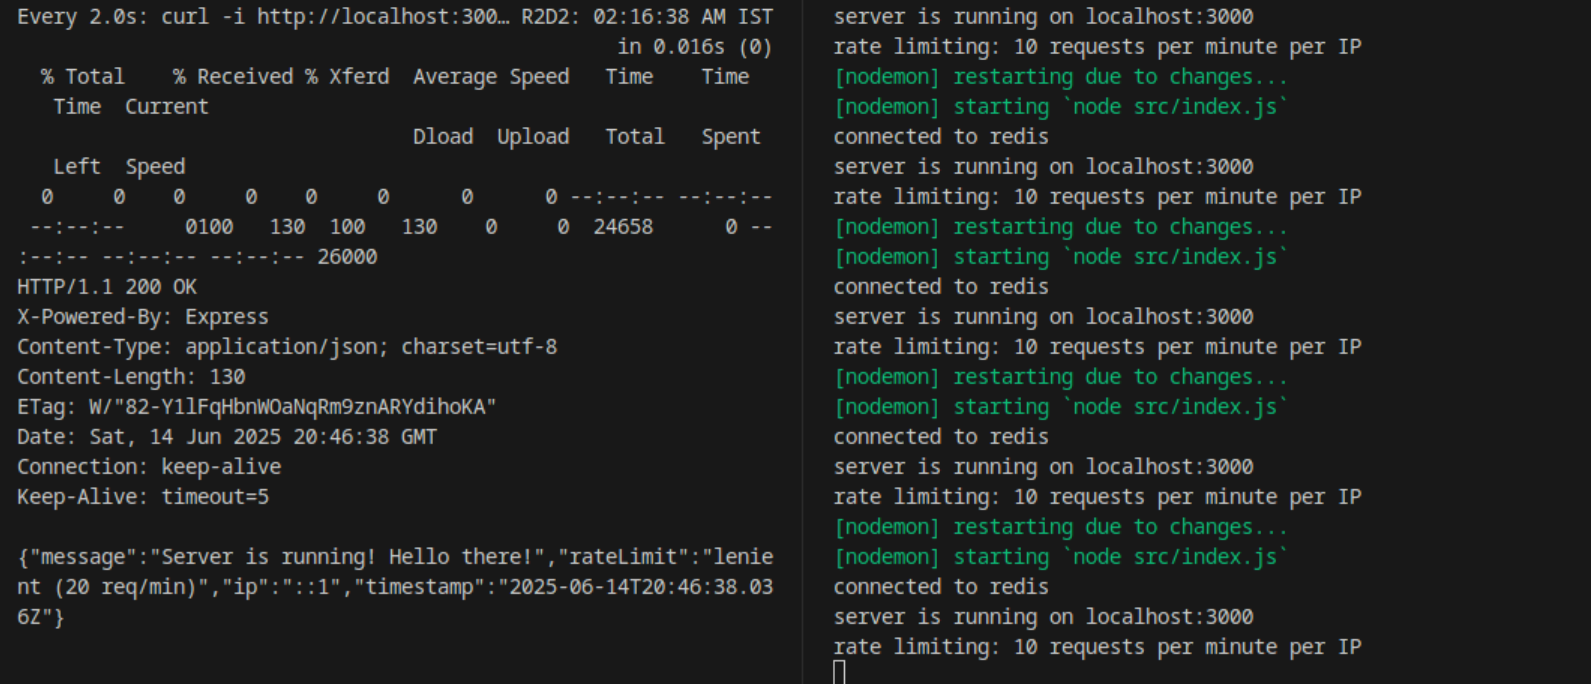
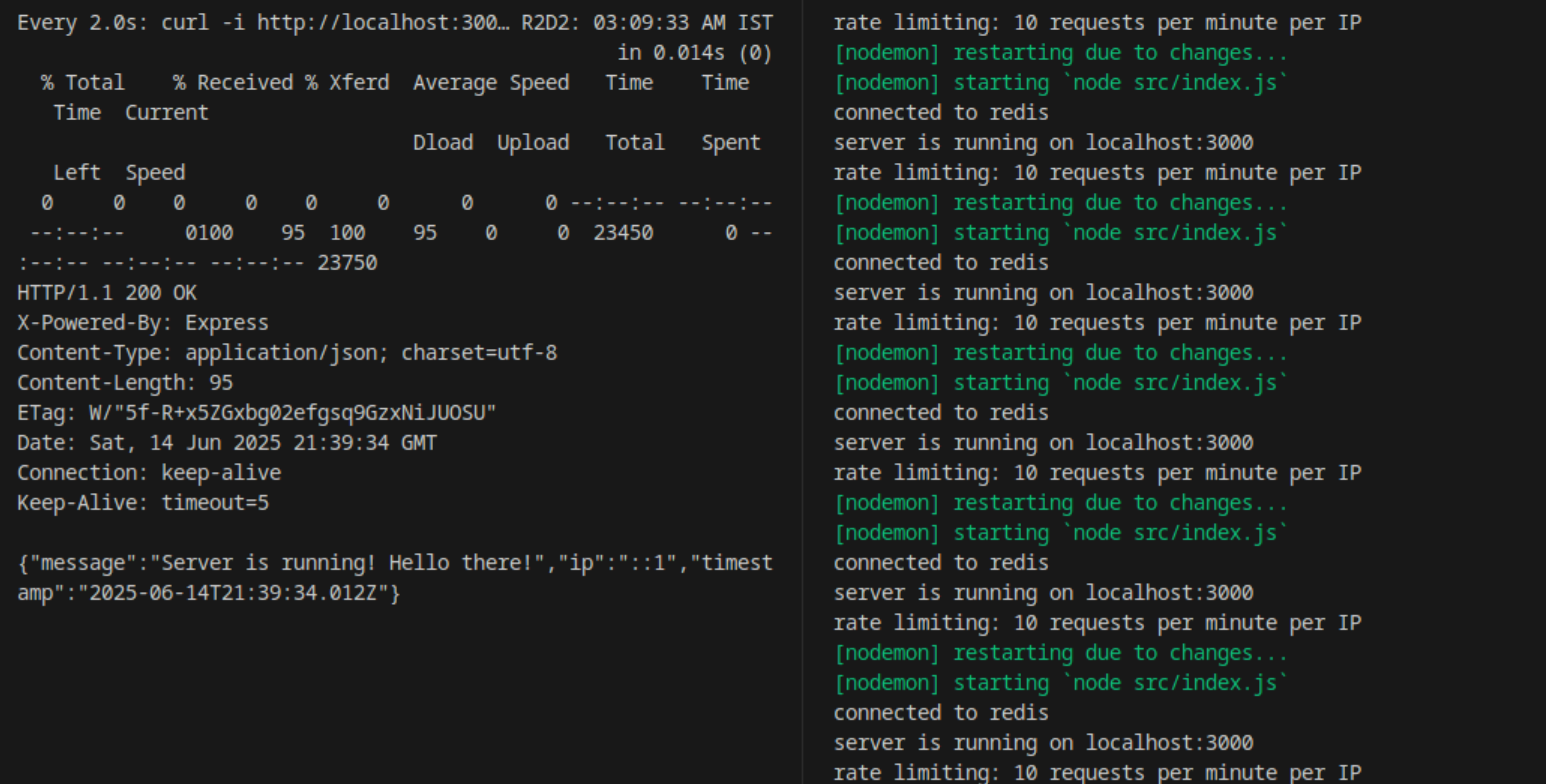
fix: demonstrate current working and logs

diff --git a/README.md b/README.md
@@ -62,7 +62,7 @@ Testing Rate Limiting:
 
 I tested the rate limiter using the watch command to see real-time behavior:
 
-watch "curl -i http://localhost:3000/test"
+watch "curl -i http://localhost:3000/"
 
 This command repeatedly hits the endpoint every 2 seconds, showing:
 - First 10 requests: Status 200
